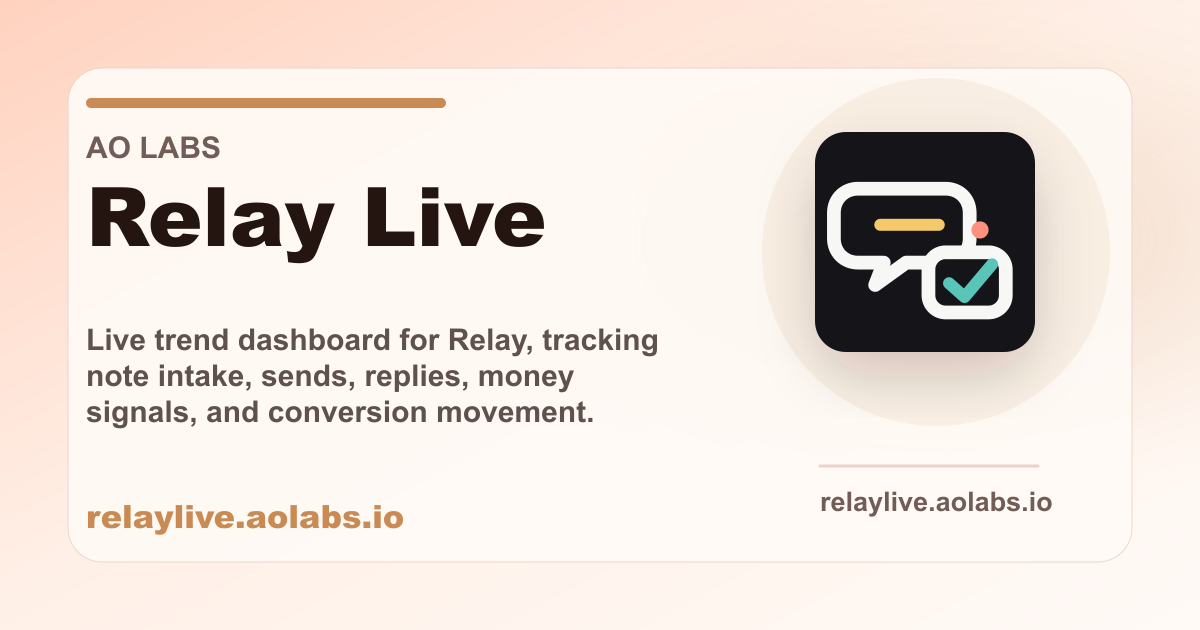
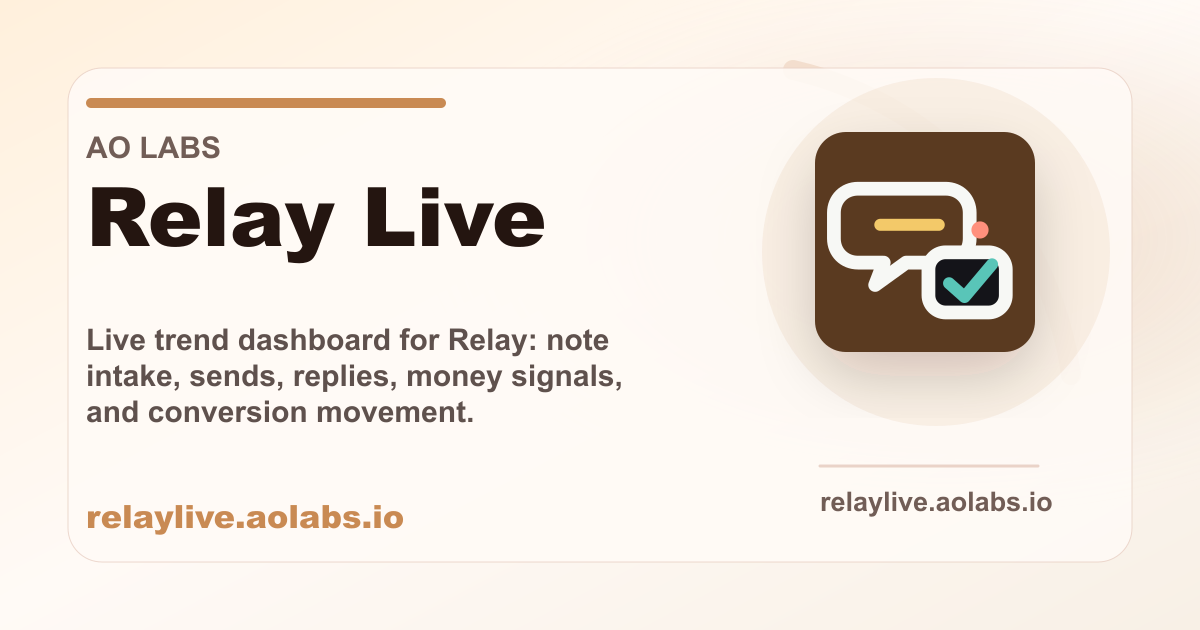
Refine social preview themes

Changed region(s): [[0.6783, 0.2111, 0.8633, 0.573], [0.0617, 0.5127, 0.555, 0.6937], [0.0, 0.0, 0.3392, 0.3317]]

diff --git a/index.html b/index.html
@@ -4,11 +4,11 @@
   <meta charset="utf-8">
   <meta name="viewport" content="width=device-width, initial-scale=1">
   <title>Relay Live</title>
-  <meta name="description" content="Live trend dashboard for Relay, tracking note intake, sends, replies, money signals, and conversion movement.">
+  <meta name="description" content="Live trend dashboard for Relay: note intake, sends, replies, money signals, and conversion movement.">
   <link rel="canonical" href="https://relaylive.aolabs.io/">
   <meta name="twitter:image:alt" content="Relay Live preview card.">
   <meta name="twitter:image" content="https://relaylive.aolabs.io/og-image-20260506.png">
-  <meta name="twitter:description" content="Live trend dashboard for Relay, tracking note intake, sends, replies, money signals, and conversion movement.">
+  <meta name="twitter:description" content="Live trend dashboard for Relay: note intake, sends, replies, money signals, and conversion movement.">
   <meta name="twitter:title" content="Relay Live">
   <meta name="twitter:card" content="summary_large_image">
   <meta property="og:image:alt" content="Relay Live preview card.">
@@ -18,7 +18,7 @@
   <meta property="og:image:secure_url" content="https://relaylive.aolabs.io/og-image-20260506.png">
   <meta property="og:image" content="https://relaylive.aolabs.io/og-image-20260506.png">
   <meta property="og:url" content="https://relaylive.aolabs.io/">
-  <meta property="og:description" content="Live trend dashboard for Relay, tracking note intake, sends, replies, money signals, and conversion movement.">
+  <meta property="og:description" content="Live trend dashboard for Relay: note intake, sends, replies, money signals, and conversion movement.">
   <meta property="og:title" content="Relay Live">
   <meta property="og:site_name" content="AO Labs">
   <meta property="og:type" content="website">